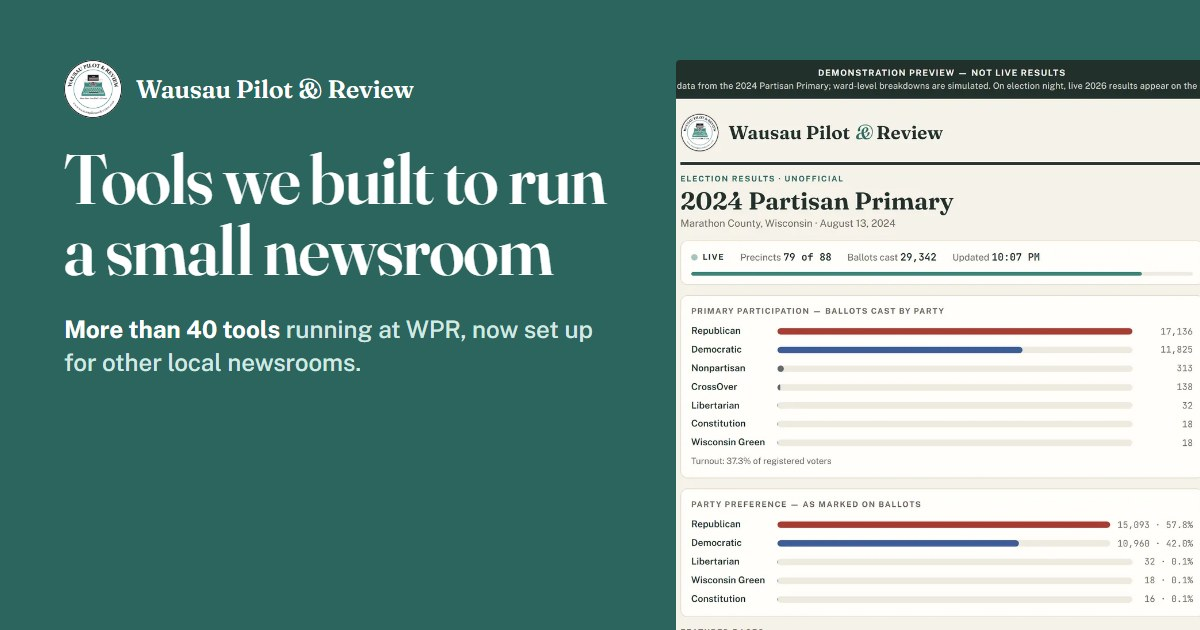
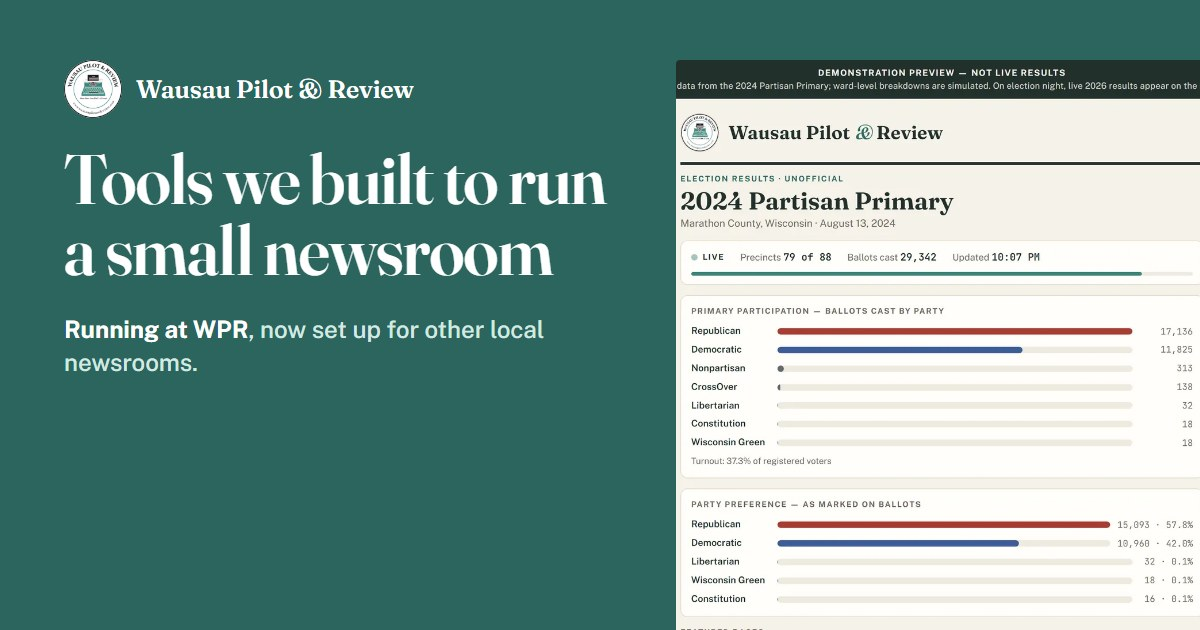
Drop the 40-tools count; say what the page shows

Changed region(s): [[0.0308, 0.4825, 0.4933, 0.6032]]

diff --git a/index.html b/index.html
@@ -237,7 +237,7 @@ p, li, figcaption { text-wrap: pretty }
   <div class="wrap">
     <h1 id="title">Tools we built to run a small newsroom</h1>
     <p class="dek">We cover Marathon County with a small staff, so we build software to do the watching, the lead-finding and the busywork. Each one runs at WPR first, and now we set them up for other local newsrooms.</p>
-    <p class="proof"><a href="#built">More than 40 tools</a> are running at WPR today, from meeting tracking to election night to Friday-night scores.</p>
+    <p class="proof"><a href="#built">See 12 of them running at WPR</a>, from meeting tracking to election night to Friday-night scores.</p>
   </div>
 </section>
 
@@ -361,7 +361,7 @@ p, li, figcaption { text-wrap: pretty }
   <div class="wrap">
     <div class="built-head">
       <h2 id="built-h">Built and running at WPR</h2>
-      <p>More than 40 tools are live at Wausau Pilot &amp; Review. Here are 12 of them, each a screenshot of the real page.</p>
+      <p>Here are 12 tools live at Wausau Pilot &amp; Review, each shown in a screenshot of its real page.</p>
     </div>
     <section class="group" aria-labelledby="g0">
       <div class="group-head"><h3 id="g0">Accountability and civic data</h3><p>Public records turned into pages readers search and come back to.</p></div>
